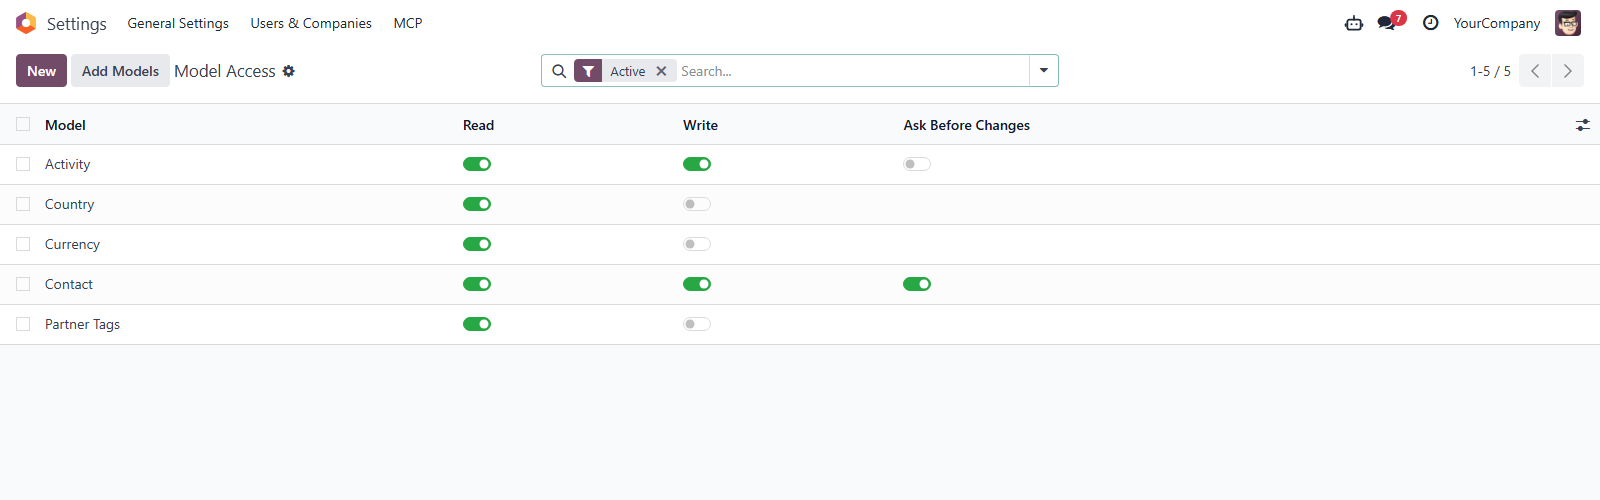
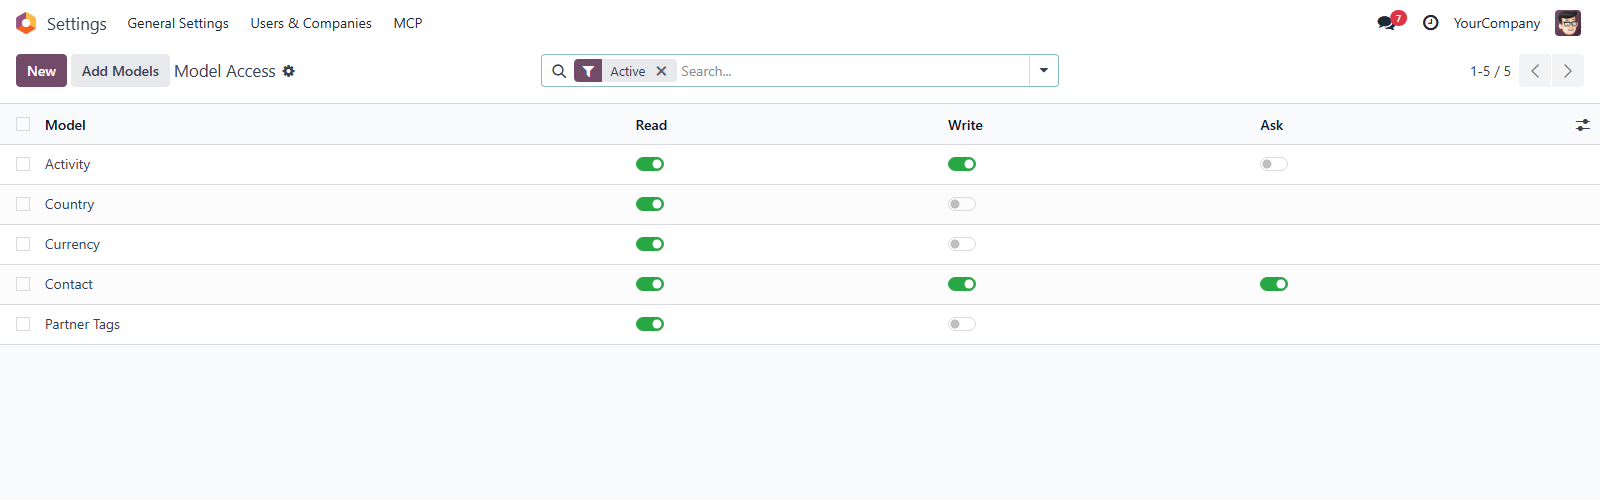
Update muk_mcp_access (736d8c9f)

diff --git a/muk_mcp_access/static/description/index.html b/muk_mcp_access/static/description/index.html
@@ -82,7 +82,7 @@
 		<div class="text-justify" style="max-width:84%; margin:16px 8%">
 			<h3 class="oe_slogan">Ask Before Changes</h3>
 			<p>
-				Switch on <em>Ask Before Changes</em> for the models where a mistake
+				Switch on <em>Ask</em> for the models where a mistake
 				hurts. A write changes nothing until the user has seen it in the AI
 				client and accepted it. The question names the records and shows the
 				values, and an answer counts for this one call, once.

diff --git a/muk_mcp_access/models/mcp_access.py b/muk_mcp_access/models/mcp_access.py
@@ -48,7 +48,7 @@ class MCPAccessModel(models.Model):
     )
 
     confirm_write = fields.Boolean(
-        string='Ask Before Changes',
+        string='Ask',
         help=(
             'Ask the user in the AI client before a write tool runs on this '
             'model. A client that cannot ask is refused.'

diff --git a/muk_mcp_access/__manifest__.py b/muk_mcp_access/__manifest__.py
@@ -10,7 +10,7 @@
         first model is added only whitelisted models are exposed — the AI
         agent cannot discover or query anything else.
     """,
-    'version': '18.0.1.2.0',
+    'version': '18.0.1.2.1',
     'category': 'Tools/API',
     'license': 'LGPL-3',
     'author': 'MuK IT',

diff --git a/muk_mcp_access/doc/index.rst b/muk_mcp_access/doc/index.rst
@@ -42,7 +42,7 @@ Each entry controls:
   ``search_read``, ``read_records``, ``describe_model``, etc.
 - **Write** — model is writable via ``create_records``,
   ``update_records``, ``delete_records``, and ``call_method``.
-- **Ask Before Changes** — the user is asked in the AI client before
+- **Ask** — the user is asked in the AI client before
   a write tool runs on the model. A client that cannot ask is refused.
 
 Use the *Add Models* button to bulk-enable multiple models at once.

diff --git a/muk_mcp_access/README.md b/muk_mcp_access/README.md
@@ -20,7 +20,7 @@ Each entry controls:
   `search_read`, `read_records`, `describe_model`, etc.
 - **Write** -- model is writable via `create_records`,
   `update_records`, `delete_records`, and `call_method`.
-- **Ask Before Changes** -- the user is asked in the AI client before
+- **Ask** -- the user is asked in the AI client before
   a write tool runs on the model. A client that cannot ask is refused.
 
 Use the _Add Models_ button to bulk-enable multiple models at once.
